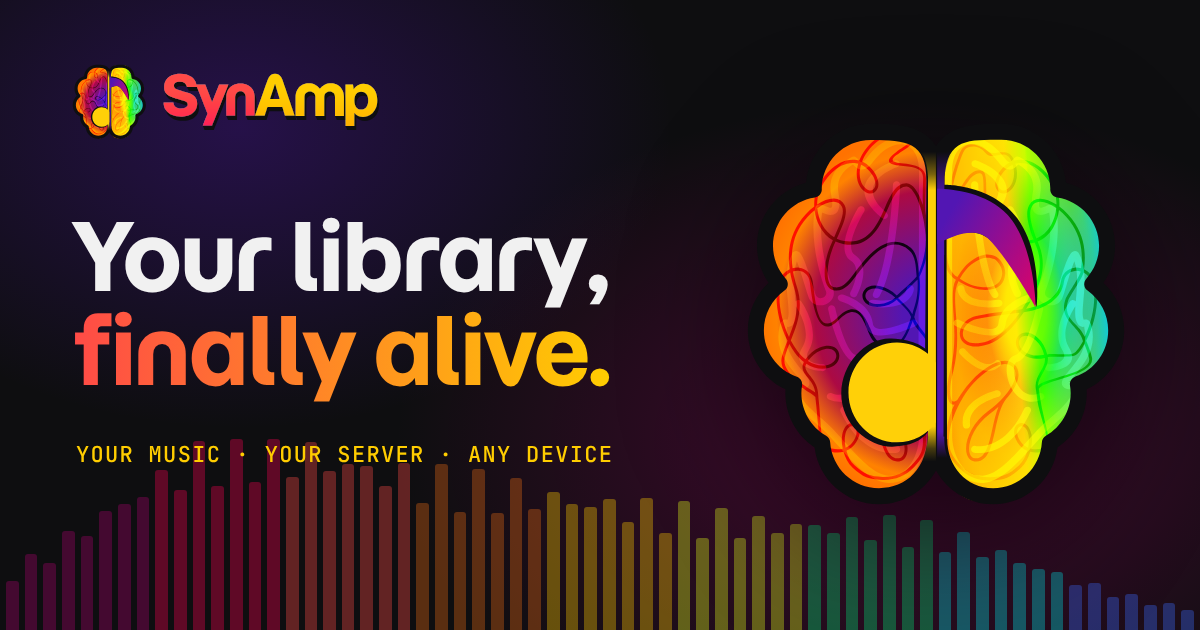
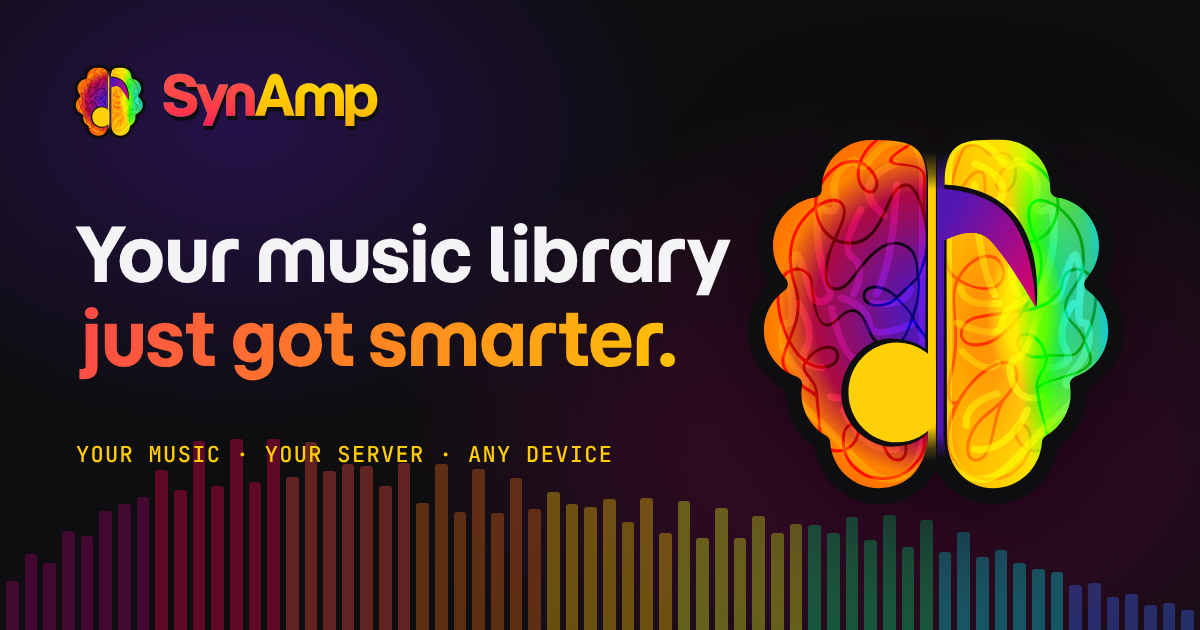
Website: the share thumbnail says "Your music library just got smarter"
The picture link previews show (og.png) still carried the old tagline. Same
picture, new headline, in the site's own font with the gradient on "just got
smarter". The og:image link gets ?v=2 so apps fetch the new picture, and its
description for screen readers matches. scripts/og/ keeps the source.

Claude-Session: https://claude.ai/code/session_018aRcptqyi6tkESMvmpbKY4

Changed region(s): [[0.0617, 0.3317, 0.6167, 0.6333]]

diff --git a/site/scripts/og/og.html b/site/scripts/og/og.html
@@ -1,0 +1,8 @@
+<!doctype html><html lang="en"><head><meta charset="utf-8">
+<link rel="stylesheet" href="https://fonts.googleapis.com/css2?family=Momo+Trust+Display&display=block">
+<style>
+  html, body { margin: 0; }
+  body { width: 1200px; height: 630px; background: url(base.png) 0 0 / 1200px 630px no-repeat; position: relative; overflow: hidden; }
+  h1 { position: absolute; left: 76px; top: 212px; margin: 0; font: 400 74px/1.14 "Momo Trust Display", sans-serif; letter-spacing: -0.01em; color: #f4f4f6; white-space: nowrap; }
+  h1 span { display: block; background: linear-gradient(100deg, #ff4a47, #ff8a1f 50%, #ffcd00); -webkit-background-clip: text; background-clip: text; color: transparent; padding-bottom: 0.12em; }
+</style></head><body><h1>Your music library <span>just got smarter.</span></h1></body></html>

diff --git a/site/src/partials/head.html b/site/src/partials/head.html
@@ -10,10 +10,10 @@
 <meta property="og:description" content="{{description}}">
 <meta property="og:type" content="website">
 <meta property="og:url" content="{{site_url}}{{path}}">
-<meta property="og:image" content="{{site_url}}/og.png">
+<meta property="og:image" content="{{site_url}}/og.png?v=2">
 <meta property="og:image:width" content="1200">
 <meta property="og:image:height" content="630">
-<meta property="og:image:alt" content="SynAmp — your library, finally alive. A colourful brain logo beside the words.">
+<meta property="og:image:alt" content="SynAmp — your music library just got smarter. A colourful brain logo beside the words.">
 <meta name="twitter:card" content="summary_large_image">
 <link rel="icon" href="/favicon.svg" type="image/svg+xml">
 <link rel="icon" href="/favicon.ico" sizes="32x32">

diff --git a/site/README.md b/site/README.md
@@ -125,4 +125,7 @@ Optional, later:
   The loops are written as step patterns at the top of
   `src/assets/visualizer.js`; change a pattern, save, and listen.
 - `og.png` is the picture link previews use (Facebook, Messages, Slack). It's
-  1200×630.
+  1200×630. To change its words, edit `scripts/og/og.html` (the headline over
+  `base.png`, the picture without one), open it in a browser at 1200×630 and
+  save a screenshot as `src/og.png`. Then raise the `?v=` number on the
+  `og:image` line in `src/partials/head.html`, so apps fetch the new picture.
